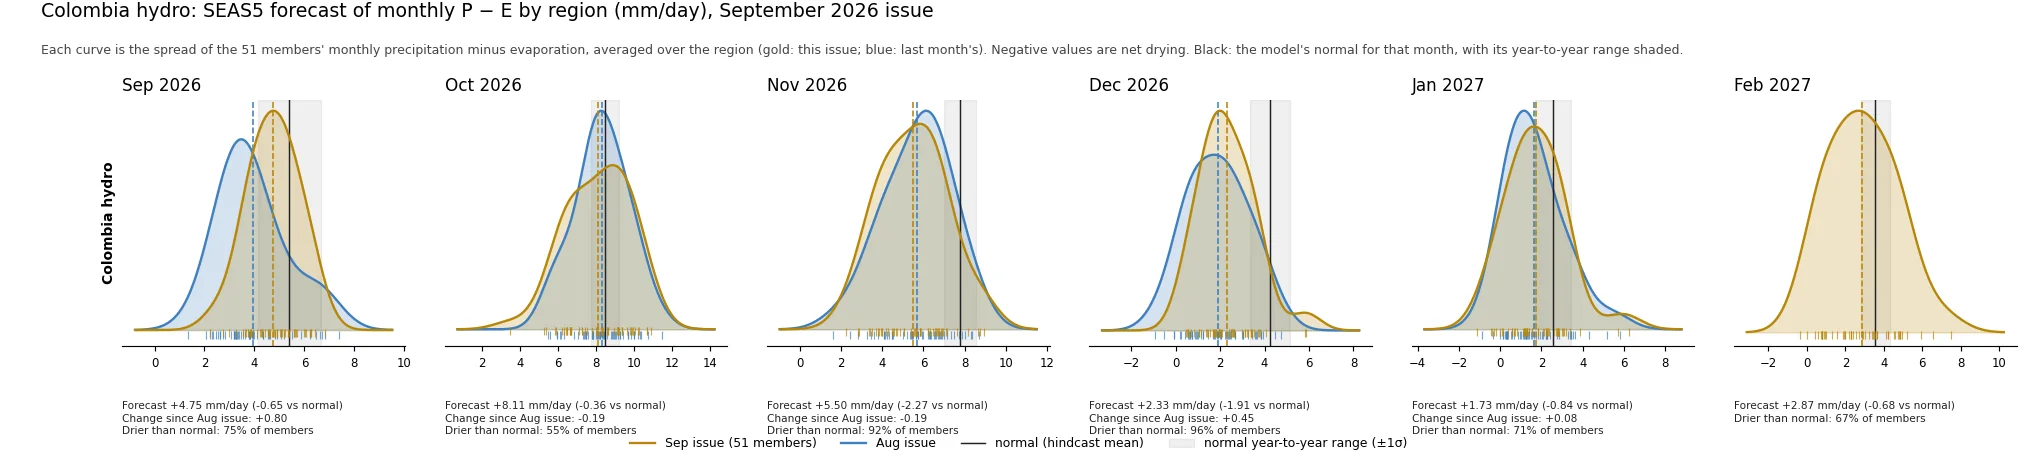
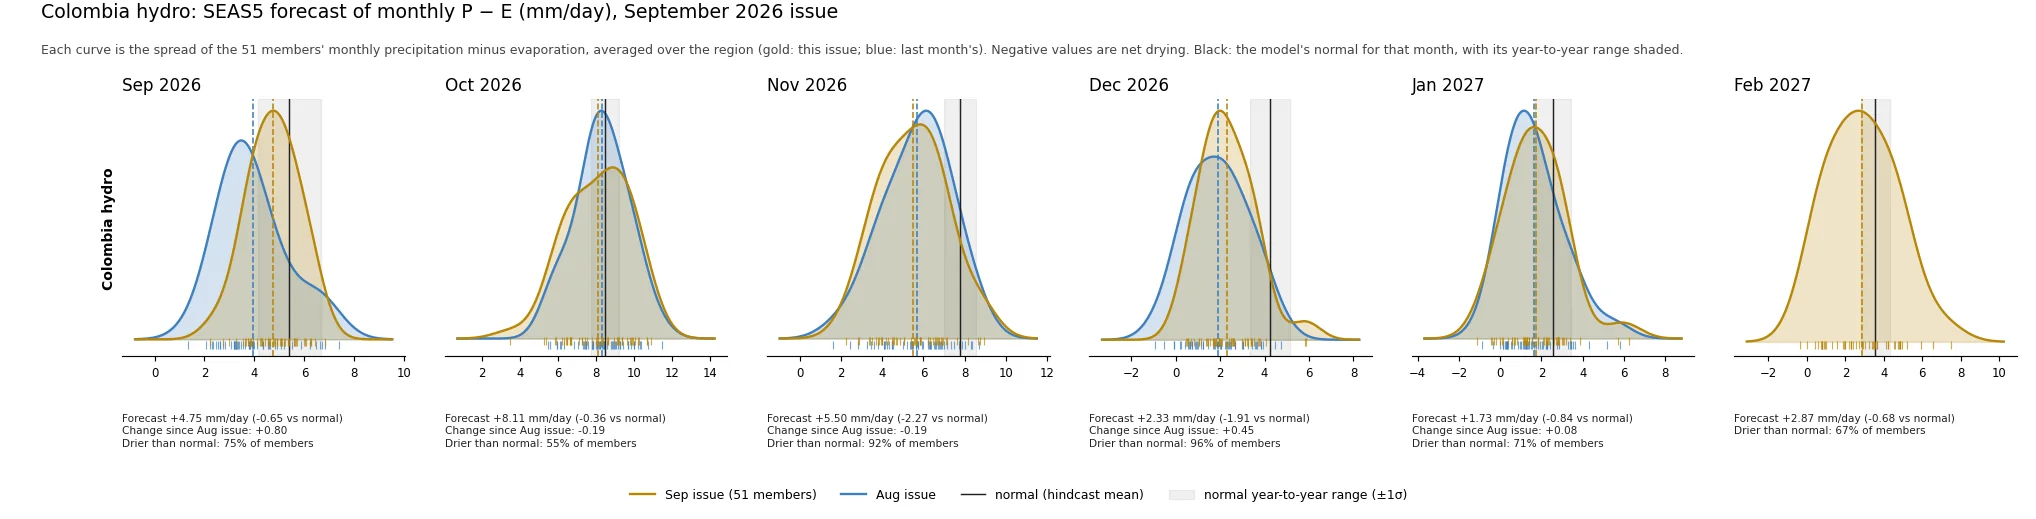
seas5: legend clear of the panel text on the single-row P−E figure
Claude-Session: https://claude.ai/code/session_01DLR6gqBe7B4VJNchTVrgT3

diff --git a/scripts/sst/seas5_pme_regions.py b/scripts/sst/seas5_pme_regions.py
@@ -124,7 +124,7 @@ def render(country: str, label: str, series_now: dict, series_prev: dict | None,
     vm, vmp = valid_months(ym), valid_months(prev)
     regions = list(series_now)
     ncol = len(vm)
-    fig, axes = plt.subplots(len(regions), ncol, figsize=(3.05 * ncol + 1.1, 2.55 * len(regions) + 1.9), squeeze=False)
+    fig, axes = plt.subplots(len(regions), ncol, figsize=(3.05 * ncol + 1.1, 2.55 * len(regions) + (1.9 if len(regions) > 1 else 2.4)), squeeze=False)
     summary = {}
     for r, name in enumerate(regions):
         fcn, hcn = series_now[name]
@@ -167,10 +167,10 @@ def render(country: str, label: str, series_now: dict, series_prev: dict | None,
                plt.Rectangle((0, 0), 1, 1, color="#000", alpha=0.06)]
     labels = [f"{calendar.month_abbr[int(ym[4:])]} issue (51 members)", f"{calendar.month_abbr[int(prev[4:])]} issue", "normal (hindcast mean)", "normal year-to-year range (±1σ)"]
     fig.legend(handles, labels, loc="lower center", ncol=4, fontsize=8.5, frameon=False, bbox_to_anchor=(0.5, 0.012))
-    fig.suptitle(f"{label}: SEAS5 forecast of monthly P − E by region (mm/day), {calendar.month_name[int(ym[4:])]} {ym[:4]} issue", x=0.02, y=0.995, ha="left", fontsize=13)
+    fig.suptitle(f"{label}: SEAS5 forecast of monthly P − E{' by region' if len(regions) > 1 else ''} (mm/day), {calendar.month_name[int(ym[4:])]} {ym[:4]} issue", x=0.02, y=0.995, ha="left", fontsize=13)
     fig.text(0.02, 1 - 0.42 / fig.get_figheight(), "Each curve is the spread of the 51 members' monthly precipitation minus evaporation, averaged over the region (gold: this issue; blue: last month's). "
              "Negative values are net drying. Black: the model's normal for that month, with its year-to-year range shaded.", fontsize=8.6, color="#444", va="top")
-    top = 1 - 0.95 / fig.get_figheight(); bottom = 1.15 / fig.get_figheight()
+    top = 1 - 0.95 / fig.get_figheight(); bottom = (1.15 if len(regions) > 1 else 1.55) / fig.get_figheight()
     fig.subplots_adjust(left=0.06, right=0.99, top=top, bottom=bottom, hspace=0.62, wspace=0.14)
     fig.savefig(out, dpi=105, pil_kwargs={"quality": 84, "method": 6}); plt.close(fig)
     print(f"  wrote {out.name}", flush=True)
